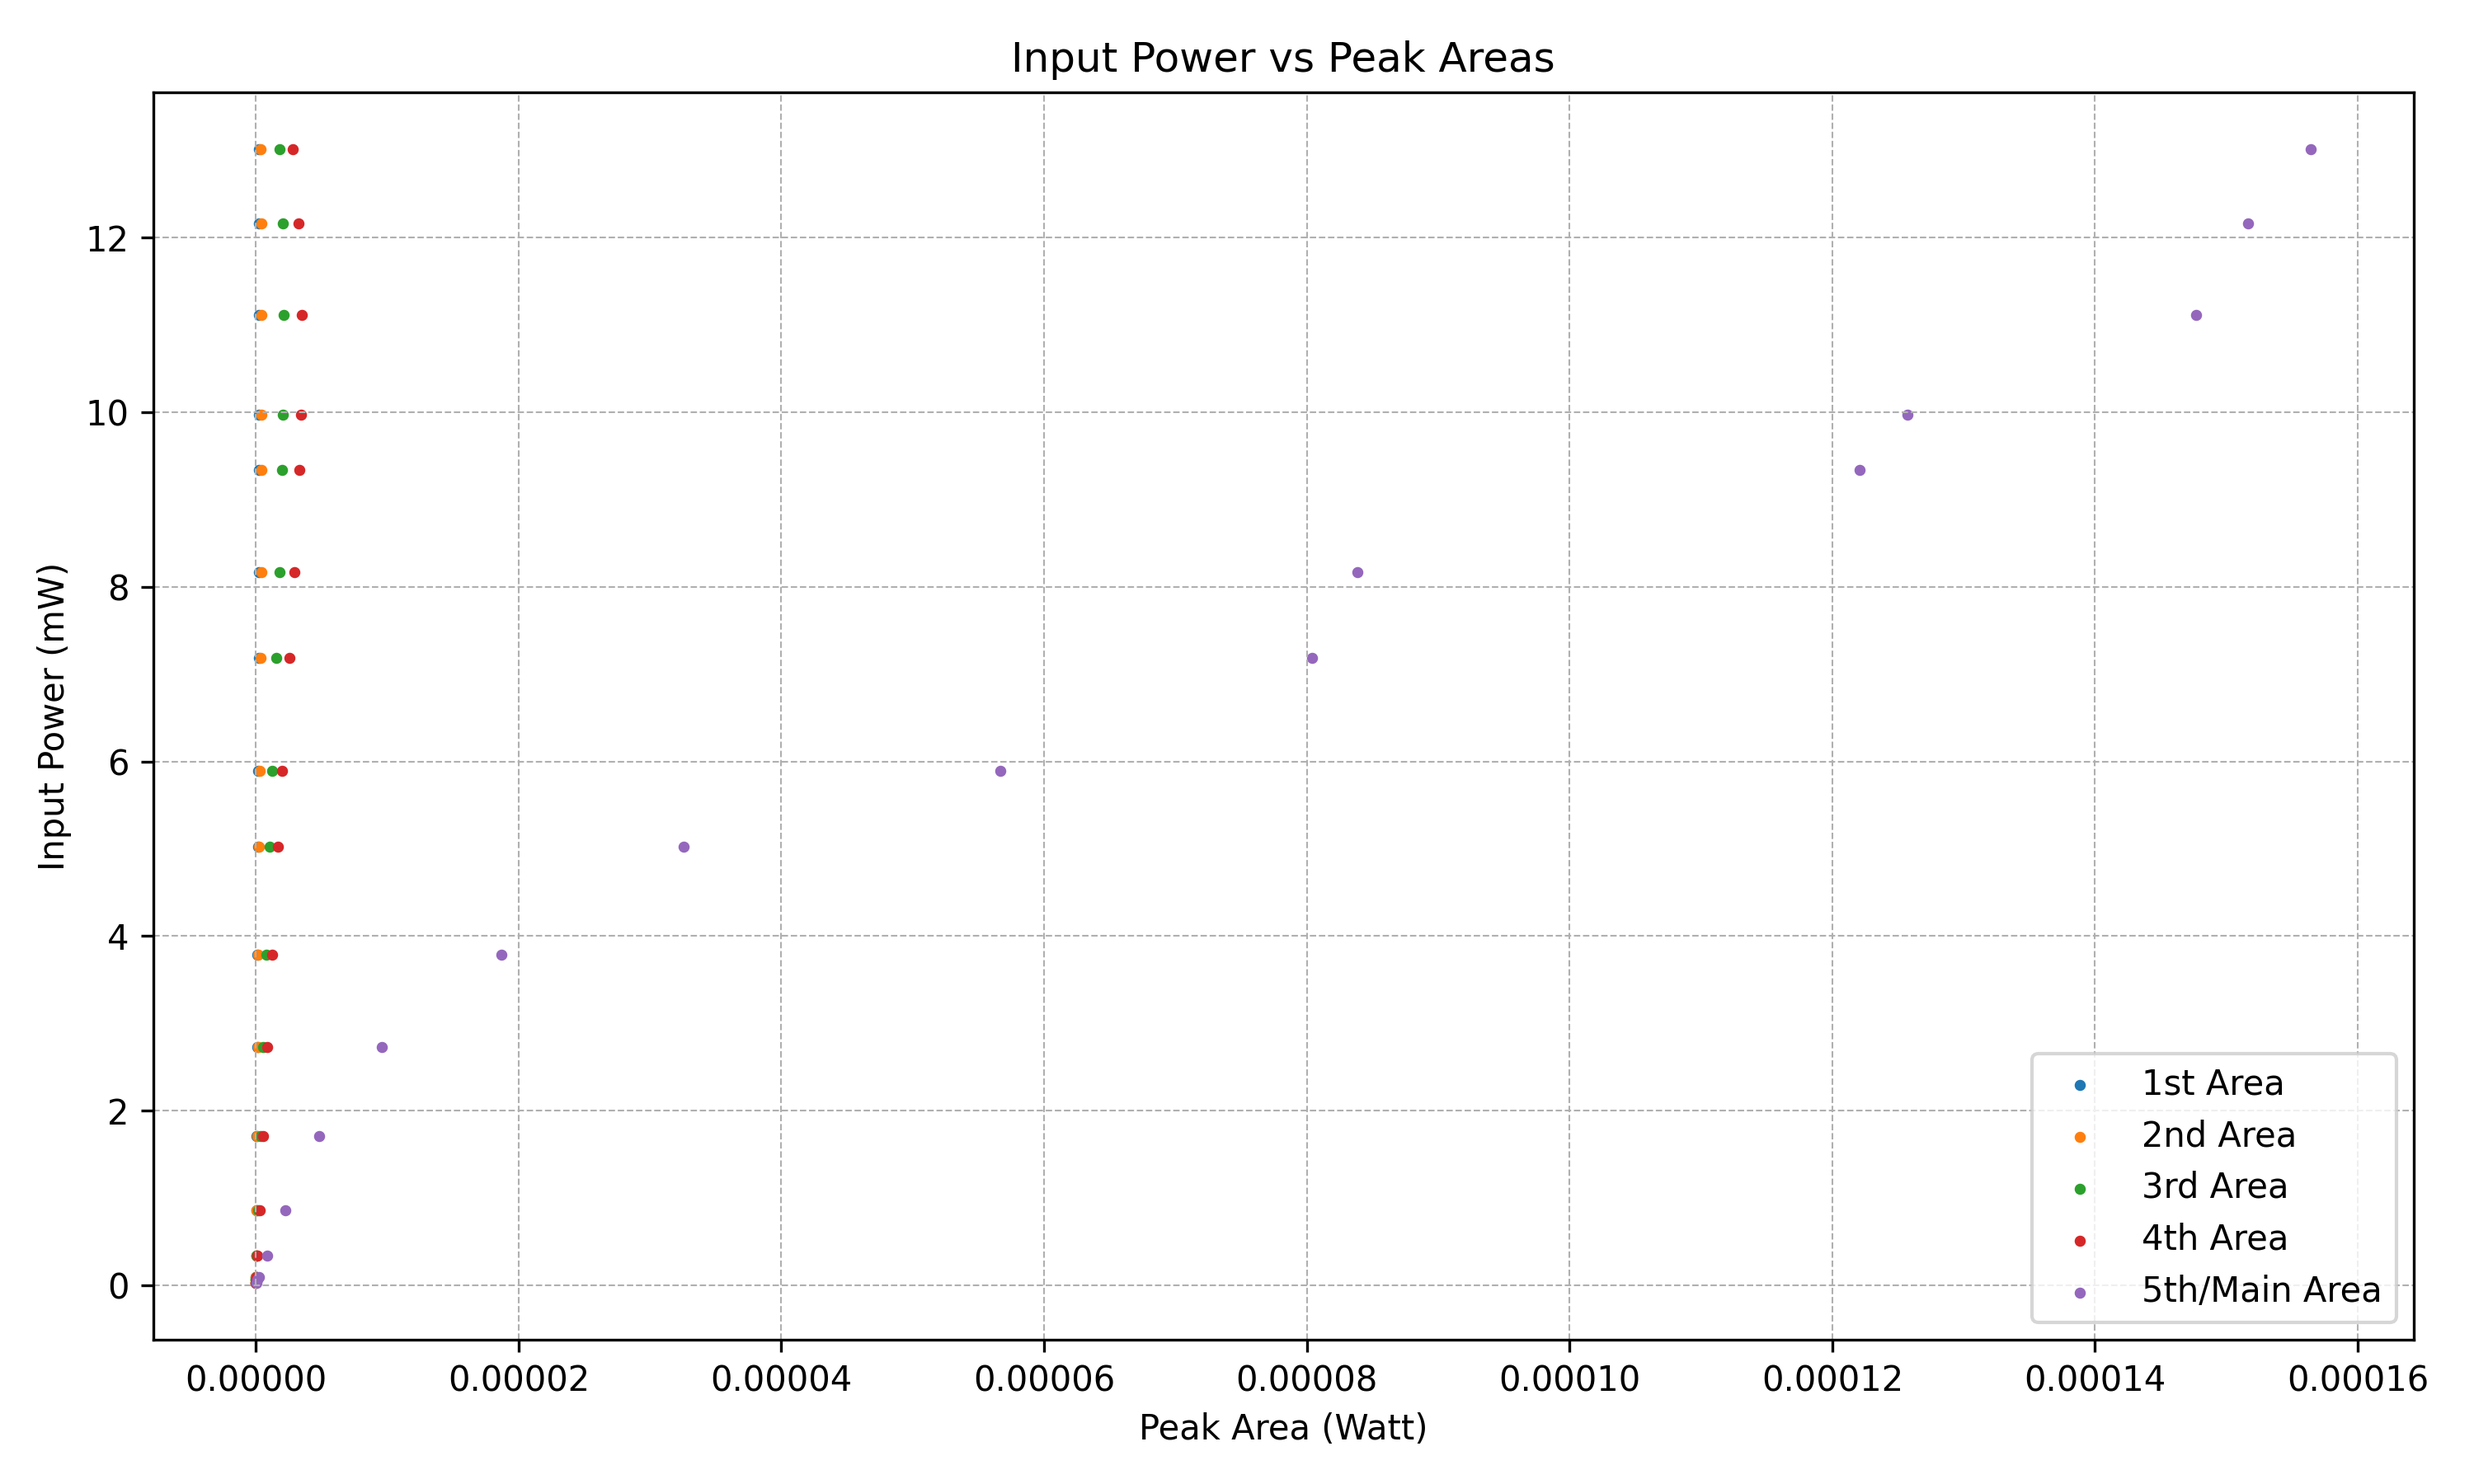
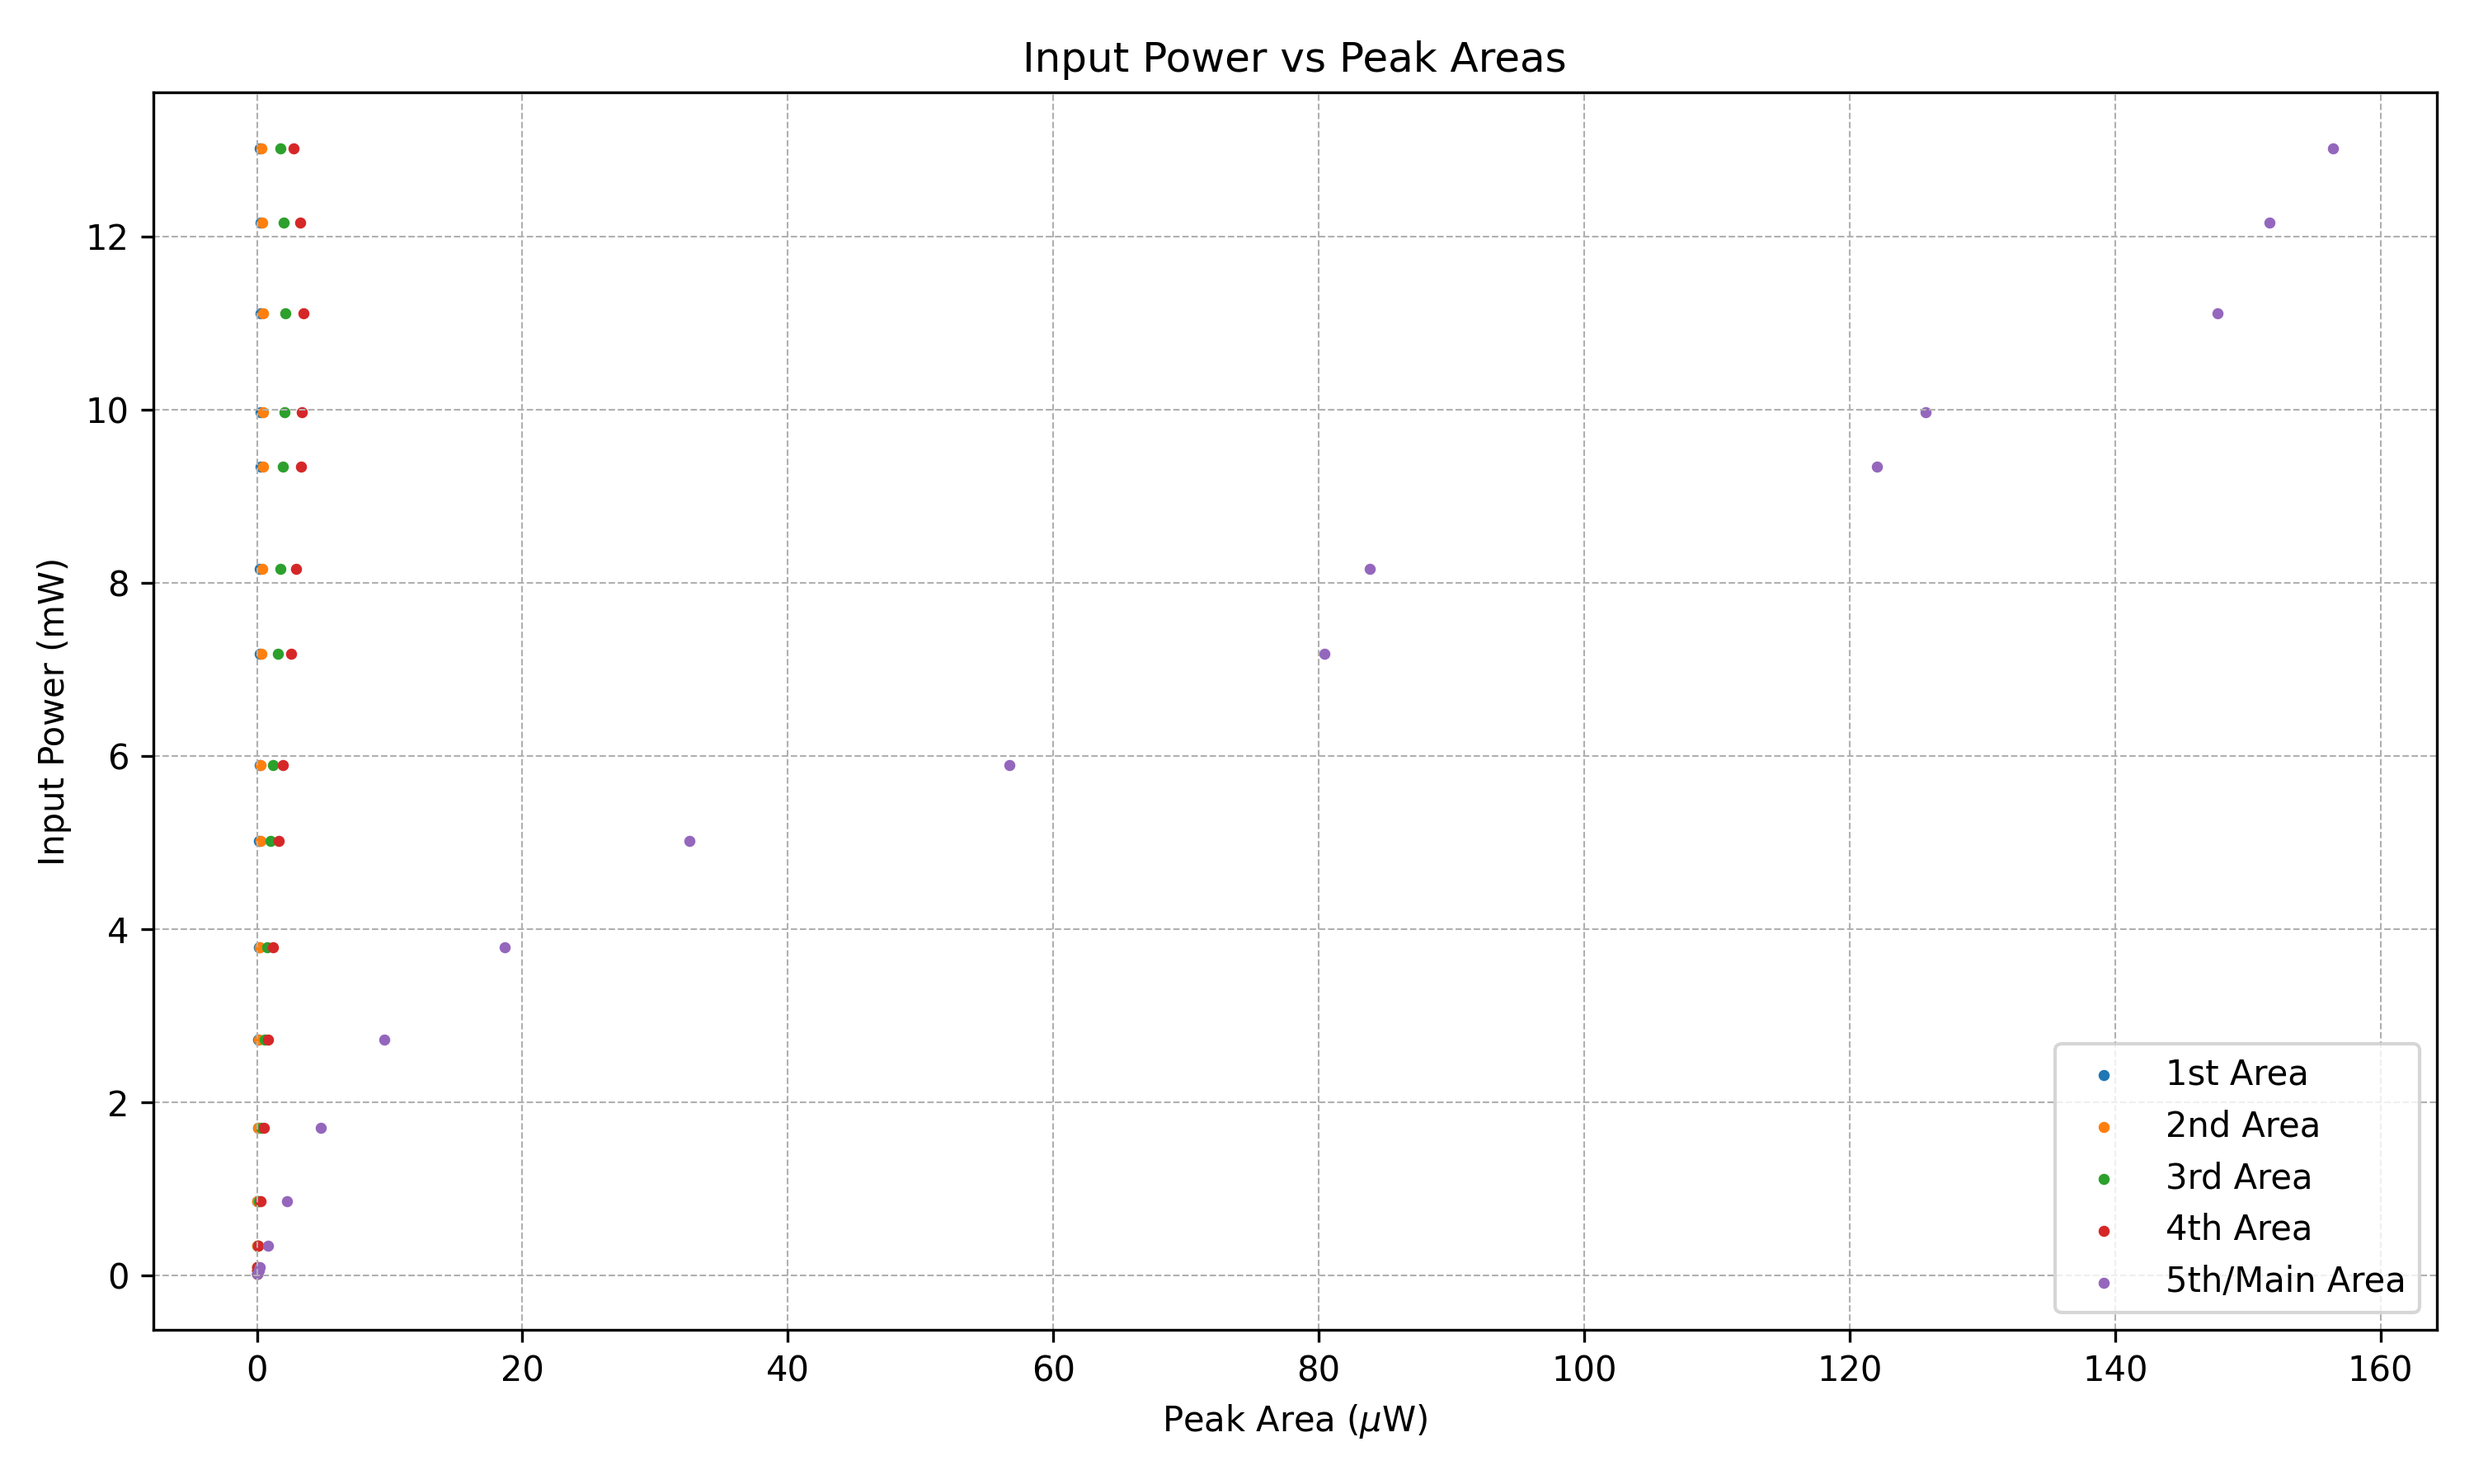
Organising code.

diff --git a/plotPeaks.py b/plotPeaks.py
@@ -52,11 +52,11 @@ def analyseSession_1():
 
 	# Plot 3: x = area, y = power
 	plt.figure(figsize=(10,6))
-	plt.scatter(df['peak1_area_W_Hz'], power, label='Stokes Area', s=5)
-	plt.scatter(df['peak2_area_W_Hz'], power, label='Rayleigh Area', s=5)
-	plt.scatter(df['peak3_area_W_Hz'], power, label='Anti-Stokes Area', s=5)
+	plt.scatter(dbm_to_watts(watts_to_dbm(df['peak1_area_W_Hz']) + df['baseline']) / 1e-3, power, label='Stokes Area', s=5)
+	plt.scatter(dbm_to_watts(watts_to_dbm(df['peak2_area_W_Hz']) + df['baseline']) / 1e-3, power, label='Rayleigh Area', s=5)
+	plt.scatter(dbm_to_watts(watts_to_dbm(df['peak3_area_W_Hz']) + df['baseline']) / 1e-3, power, label='Anti-Stokes Area', s=5)
 	plt.ylabel('Input power (mW)')
-	plt.xlabel('Peak Area (Watt)')
+	plt.xlabel('Peak Area (mW)')
 	plt.title('Input Power vs Peak Areas')
 	plt.grid(True, which='both', linestyle='--', linewidth=0.5)
 	plt.legend()
@@ -66,11 +66,11 @@ def analyseSession_1():
 
 	# Plot 4: x = power, y = area (axes swapped)
 	plt.figure(figsize=(10,6))
-	plt.scatter(power, dbm_to_watts(watts_to_dbm(df['peak1_area_W_Hz']) + df['baseline']), label='Stokes Area', s=5)
-	plt.scatter(power, dbm_to_watts(watts_to_dbm(df['peak2_area_W_Hz']) + df['baseline']), label='Rayleigh Area', s=5)
-	plt.scatter(power, dbm_to_watts(watts_to_dbm(df['peak3_area_W_Hz']) + df['baseline']), label='Anti-Stokes Area', s=5)
+	plt.scatter(power, dbm_to_watts(watts_to_dbm(df['peak1_area_W_Hz']) + df['baseline']) / 1e-3, label='Stokes Area', s=5)
+	plt.scatter(power, dbm_to_watts(watts_to_dbm(df['peak2_area_W_Hz']) + df['baseline']) / 1e-3, label='Rayleigh Area', s=5)
+	plt.scatter(power, dbm_to_watts(watts_to_dbm(df['peak3_area_W_Hz']) + df['baseline']) / 1e-3, label='Anti-Stokes Area', s=5)
 	plt.xlabel('Input power (mW)')
-	plt.ylabel('Peak Area (Watt)')
+	plt.ylabel('Peak Area (mW)')
 	plt.title('Peak Areas vs Input Power')
 	plt.grid(True, which='both', linestyle='--', linewidth=0.5)
 	plt.legend()
@@ -153,14 +153,14 @@ def analyseSession_2():
 	'''
 	# Plot 3: x = area, y = power
 	plt.figure(figsize=(10,6))
-	plt.scatter(df['peak1_area_W_Hz'], power, label='1st Area', s=5)
-	plt.scatter(df['peak2_area_W_Hz'], power, label='2nd Area', s=5)
-	plt.scatter(df['peak3_area_W_Hz'], power, label='3rd Area', s=5)
-	plt.scatter(df['peak4_area_W_Hz'], power, label='4th Area', s=5)
-	plt.scatter(df['peak5_area_W_Hz'], power, label='5th/Main Area', s=5)
+	plt.scatter(df['peak1_area_W_Hz'] / 1e-6, power, label='1st Area', s=5)
+	plt.scatter(df['peak2_area_W_Hz'] / 1e-6, power, label='2nd Area', s=5)
+	plt.scatter(df['peak3_area_W_Hz'] / 1e-6, power, label='3rd Area', s=5)
+	plt.scatter(df['peak4_area_W_Hz'] / 1e-6, power, label='4th Area', s=5)
+	plt.scatter(df['peak5_area_W_Hz'] / 1e-6, power, label='5th/Main Area', s=5)
 	#plt.scatter(df['peak6_area_W_Hz'], power, label='6th/Extra Area', s=5) # Ignored as this is the Phantom peak
 	plt.ylabel('Input Power (mW)')
-	plt.xlabel('Peak Area (Watt)')
+	plt.xlabel(r'Peak Area ($\mu$W)')
 	plt.title('Input Power vs Peak Areas')
 	plt.grid(True, which='both', linestyle='--', linewidth=0.5)
 	plt.legend()
@@ -170,14 +170,14 @@ def analyseSession_2():
 
 	# Plot 4: x = power, y = area (axes swapped)
 	plt.figure(figsize=(10,6))
-	plt.scatter(power, df['peak1_area_W_Hz'], label='1st Area', s=5)
-	plt.scatter(power, df['peak2_area_W_Hz'], label='2nd Area', s=5)
-	plt.scatter(power, df['peak3_area_W_Hz'], label='3rd Area', s=5)
-	plt.scatter(power, df['peak4_area_W_Hz'], label='4th Area', s=5)
-	plt.scatter(power, df['peak5_area_W_Hz'], label='5th/Main Area', s=5)
+	plt.scatter(power, df['peak1_area_W_Hz'] / 1e-6, label='1st Area', s=5)
+	plt.scatter(power, df['peak2_area_W_Hz'] / 1e-6, label='2nd Area', s=5)
+	plt.scatter(power, df['peak3_area_W_Hz'] / 1e-6, label='3rd Area', s=5)
+	plt.scatter(power, df['peak4_area_W_Hz'] / 1e-6, label='4th Area', s=5)
+	plt.scatter(power, df['peak5_area_W_Hz'] / 1e-6, label='5th/Main Area', s=5)
 	#plt.scatter(power, df['peak6_area_W_Hz'], label='6th/Extra Area', s=5) # Ignored as this is the Phantom peak
 	plt.xlabel('Input Power (mW)')
-	plt.ylabel('Peak Area (Watt)')
+	plt.ylabel(r'Peak Area ($\mu$W)')
 	plt.title('Peak Areas vs Input Power')
 	plt.grid(True, which='both', linestyle='--', linewidth=0.5)
 	plt.legend()
@@ -554,12 +554,100 @@ def create_g2_plots():
         except Exception as e:
             print(f"An error occurred while processing '{name}': {e}")
 
+def create_linewidth_session_1():
+    #THIS FILE IS JUST USED TO CREATE THE LINEWIDTH VS POWER SCATTER PLOT FOR SESSION 1
+
+
+    # --- Configuration ---
+    # Path to the input CSV file for Session 1.
+    input_filepath = 'Measurements_Analysis/Session_1/all_peaks_summary_sorted.csv'
+    # Directory where the output plot image will be saved.
+    output_dir = 'Measurements_Analysis/Session_1/images'
+    # Filename for the saved plot.
+    output_filename = 'linewidth_vs_power_scatter_MHz.png'
+
+    # --- Column Names ---
+    # Column for the x-axis data.
+    x_column = 'powerOf10PercentBeamSplitter(MicroWatt)'
+    # Columns for the y-axis data (the three peak widths).
+    y_columns = {
+        'peak1_width': 'Stokes',
+        'peak2_width': 'Rayleigh',
+        'peak3_width': 'Anti-Stokes'
+    }
+
+    # --- Script ---
+    try:
+        # --- 1. Load and Prepare Data ---
+
+        # Read the entire CSV file without skipping rows to ensure the header is read correctly.
+        df = pd.read_csv(input_filepath)
+
+        # Skip the first 3 data points by slicing the DataFrame.
+        # .iloc[3:] selects all rows from the 4th row (index 3) onwards.
+        df_filtered = df.iloc[3:].reset_index(drop=True)
+
+
+        # Extract the x and y data from the filtered DataFrame.
+        x_data = df_filtered[x_column]
+        
+        # --- 2. Create the Plot ---
+
+        # Initialize a new plot. `figsize` makes the plot wider for better readability.
+        plt.figure(figsize=(10, 6))
+
+        # Loop through the peak width columns and plot each one as a scatter plot.
+        for col, label in y_columns.items():
+            if col in df_filtered.columns:
+                # Convert y-axis data from Hz to MHz by dividing by 1e6.
+                y_data_mhz = 2*df_filtered[col] / 1e9 # Factor of 2 to convert HWHM to FWHM (linewidth)
+                plt.scatter(x_data, y_data_mhz, label=label)
+            else:
+                print(f"Warning: Column '{col}' not found in the file. Skipping.")
+
+        # --- 3. Style the Plot ---
+
+        # Add labels to the axes and a title to the plot for clarity.
+        plt.xlabel('Power (μW)')
+        plt.ylabel('Linewidth (GHz)')
+        plt.title('Linewidth(FWHM) vs. Input Power (10% Beam Splitter Port)')
+        
+        # Add a legend to distinguish between the different peaks.
+        plt.legend()
+        
+        # Add a grid for easier reading of values.
+        plt.grid(True)
+        
+        # --- 4. Save the Plot ---
+
+        # Check if the output directory exists. If not, create it.
+        # `exist_ok=True` prevents an error if the directory already exists.
+        os.makedirs(output_dir, exist_ok=True)
+
+        # Construct the full path for the output file.
+        output_filepath = os.path.join(output_dir, output_filename)
+
+        # Save the plot to the specified file.
+        # `dpi=300` saves it in high resolution.
+        plt.savefig(output_filepath, dpi=300)
+
+        print(f"Scatter plot successfully created and saved to: {output_filepath}")
+
+    except FileNotFoundError:
+        print(f"Error: The file was not found at '{input_filepath}'")
+        print("Please make sure the file path and name are correct.")
+    except KeyError as e:
+        print(f"Error: A required column was not found in the CSV file: {e}")
+        print("Please check the column names in your configuration.")
+    except Exception as e:
+        print(f"An unexpected error occurred: {e}")
+
 # --- Main execution block ---
 if __name__ == "__main__":
     parser = argparse.ArgumentParser()
     # Choices list
     parser.add_argument('--session', type=str, default='session_1', 
-                        choices=['session_1', 'session_2', 'session_2_freq', 'plotg20comparison', 'create_g2_plots'],
+                        choices=['session_1', 'session_2', 'session_2_freq', 'plotg20comparison', 'create_g2_plots', 'create_linewidth_session_1'],
                         help='Choose which session to analyze (default: session_1)')
     args = parser.parse_args()
 
@@ -583,9 +671,9 @@ if __name__ == "__main__":
         # Create g2 plots
         print("Running code to create g2 plots")
         create_g2_plots()
-
-
-
-
+    elif args.session == 'create_linewidth_session_1':
+        # Create linewidth plots for session 1
+        print("Running code to create linewidth plots for SESSION 1")
+        create_linewidth_session_1()
 
 
